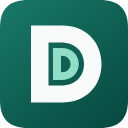
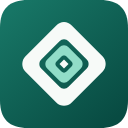
refine: express artifact evidence as a layered core

Changed region(s): [[0.1562, 0.1562, 0.8438, 0.8438], [0.2812, 0.2812, 0.7188, 0.7188]]

diff --git a/web/lib/build-metadata.js b/web/lib/build-metadata.js
@@ -1,23 +1,23 @@
 // Generated by scripts/write-build-metadata.mjs. Do not edit by hand.
-export const ANALYZER_BUILD_COMMIT = "4f63915fad8ebf00541e845bf8796454ca0a89a1";
+export const ANALYZER_BUILD_COMMIT = "3cdd70ae5136961593ce8fc5315b0aecbdb8be6c";
 export const ANALYZER_BUILD_SOURCE_STATE = "clean";
 export const ANALYZER_SOURCE_DISTRIBUTION = "public_channel";
[2 lines of base64/hex data omitted]
 export const ANALYZER_BUNDLE_CONTENT_HASH_METHOD = "SHA-256 over RFC8785-JCS canonical deepbom.analyzer_build_file_digest_set.v1";
 export const ANALYZER_BUNDLE_HASH_BASIS = Object.freeze([
   "472 files",
   "SHA-256 over RFC8785-JCS canonical deepbom.analyzer_build_file_digest_set.v1",
-  "manifest deepbom.analyzer_build_content_manifest.v1 SHA-256 c8971d274a9e380271c5fc1ec3e85fd5eaed33212de7448b97180df08dd4c914",
+  "manifest deepbom.analyzer_build_content_manifest.v1 SHA-256 8b51320ca3438878f0e0ea6321e3e9bd5007bb9456b0f03abf348bc48eaf4eff",
   "roots: web, pkg/tflite_wasm_audit.js, pkg/tflite_wasm_audit_bg.wasm, package.json, package-lock.json, Cargo.toml, Cargo.lock, build.rs, src",
   "file excludes: **/.gitignore, web/lib/build-metadata.js, web/samples/mobilenet_v1_025_224_float.tflite, web/samples/sample_cnn_float.onnx",
   "file exclude patterns: ^web\\/lib\\/cyclonedx-(?:20|draft|perspective)(?:-|\\.|$), ^web\\/vendor\\/jsonpath-rfc95\\d+(?:\\.|$)",
   "directory excludes: .git, .wrangler, dist, node_modules, target, web/protected"
 ]);
[2 lines of base64/hex data omitted]
 export const ANALYZER_BUNDLE_CONTENT_MANIFEST = Object.freeze({
   "schema": "deepbom.analyzer_build_content_manifest.v1",
   "content_digest": {
[2 lines of base64/hex data omitted]
     "method": "SHA-256 over RFC8785-JCS canonical deepbom.analyzer_build_file_digest_set.v1",
     "canonicalization": "RFC8785-JCS",
     "digest_set_schema": "deepbom.analyzer_build_file_digest_set.v1"
@@ -358,8 +358,8 @@ export const ANALYZER_BUNDLE_CONTENT_MANIFEST = Object.freeze({
     },
     {
       "path": "web/chatgpt/deepbom-app-icon.svg",
-      "size": 926,
[1 lines of base64/hex data omitted]
+      "size": 1220,
[1 lines of base64/hex data omitted]
     },
     {
       "path": "web/chatgpt/deepbom-widget.js",
